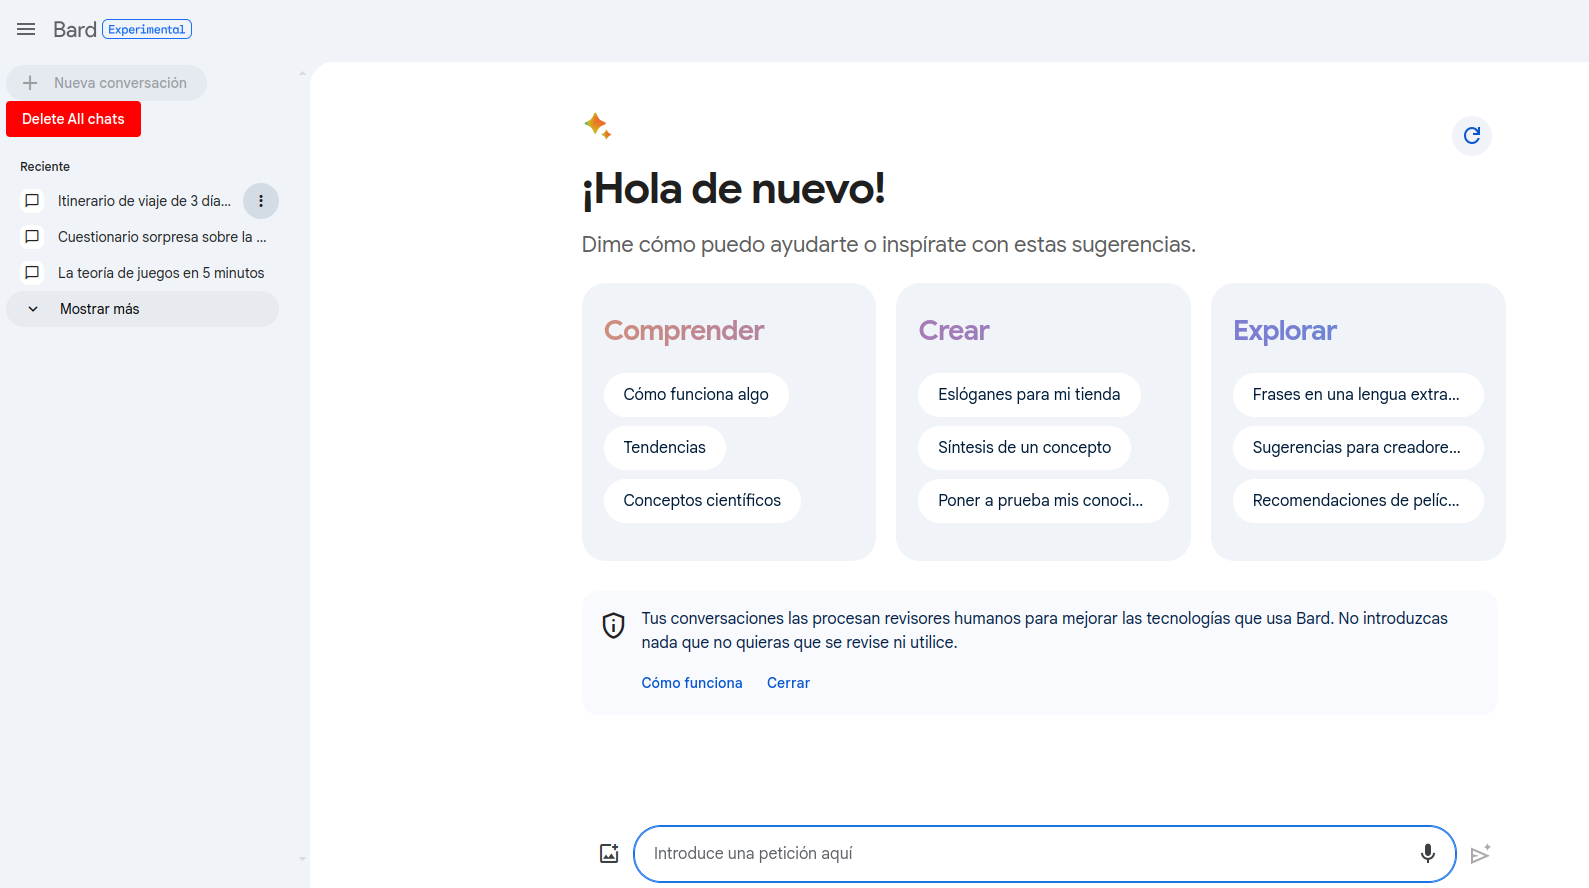
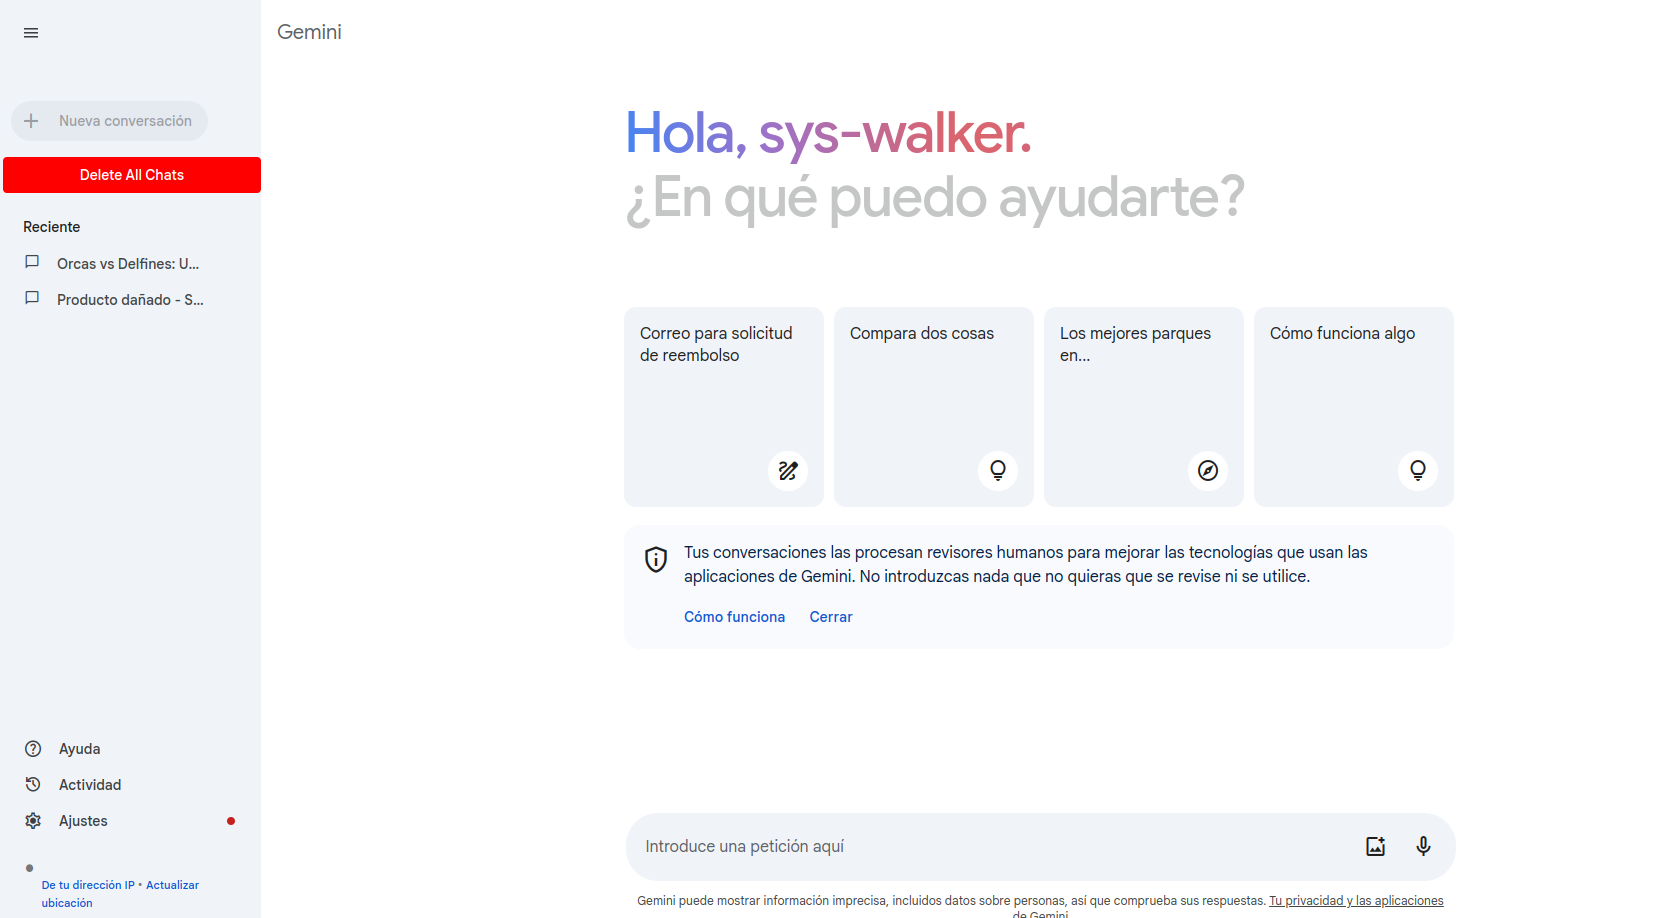
Migrate from Bard to Gemini

diff --git a/caballo.js b/caballo.js
@@ -3,10 +3,7 @@ console.log("The Caballo extension is up and running");
 async function optionChatButton() {
   const button = await new Promise((resolve) => {
     setTimeout(() => {
-      let optionsChat = document.querySelector(
-        "#conversations-list-0 > div:nth-child(2) > button > span.mat-mdc-focus-indicator"
-      );
-
+      let optionsChat= document.querySelector("#conversations-list-0 > div:nth-child(2) > button")
       console.log("optionChat:", optionsChat);
       resolve(optionsChat);
     }, 150);
@@ -34,7 +31,7 @@ async function deleteChat(buttonChat) {
       )[0];
       console.log("deleteDialog:", deleteDialog);
       let buttons = deleteDialog.getElementsByTagName("button");
-      console.log("confirmDelete:", buttons[2]);
+      console.log("confirmDelete:", buttons[1]);
       resolve(buttons[1]);
     }, 150);
   });
@@ -57,10 +54,12 @@ async function caballo() {
 async function main() {
   const doc = await new Promise((resolve) => {
     setTimeout(() => {
-      let d = document.querySelector("#app-root > side-navigation > mat-sidenav-container > mat-sidenav > div > div > div > div.new-conversation-container.ng-star-inserted")
+      let d = document.querySelector("div.side-nav-button-container")
+      console.log(d);
       resolve(d);
-    }, 1000);
+    }, 1500);
   });
+  
 
   //1. Create the button element:
   const newButton = document.createElement("button");

diff --git a/README.md b/README.md
@@ -1,6 +1,6 @@
-# Delete All Bard Chats (Caballo)
+# Delete All Gemini Chats (Caballo)
 
-This is a code repository for a browser extension that allows us to delete all active chats in Bard. It removes all chats with a single click.
+This is a code repository for a browser extension that allows us to delete all active chats in Gemini. It removes all chats with a single click.
 
 Caballo was the original name of the original script that was created as a meme and ended up as an extension.
 
@@ -46,7 +46,7 @@ Navigate to the local folder containing the extension’s code and click OK
 
 ## Final result
 
-Now,visit the bard.google.com site and you will see a `Delete All Chats` button near the button `new chat`
+Now,visit the gemini.google.com site and you will see a `Delete All Chats` button near the button `new chat`
 
 ![Demo of Caballo Extension](images/demo.png)
 
